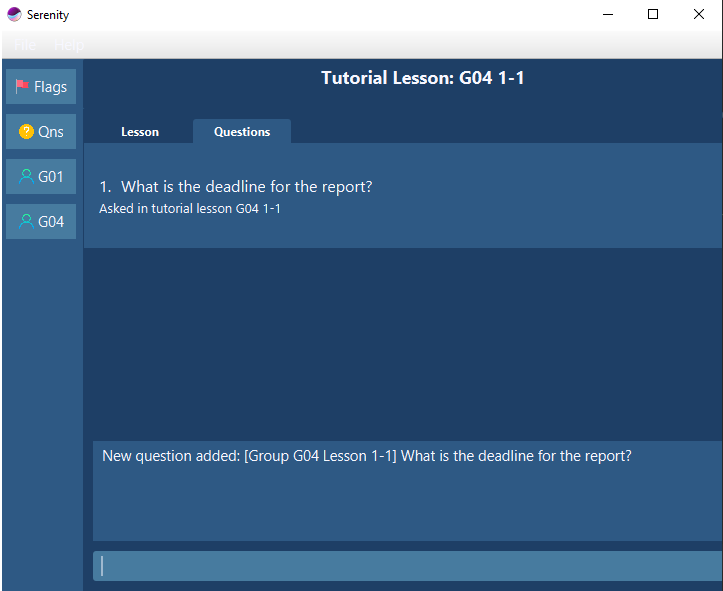
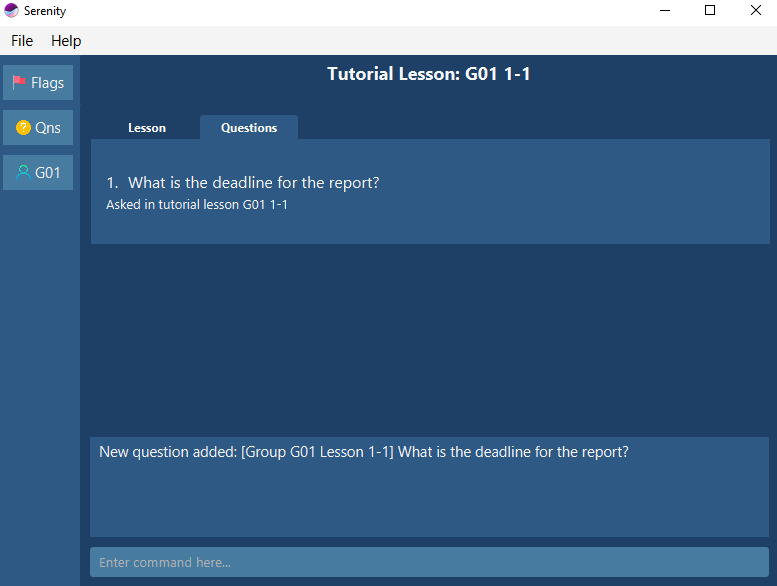
Update pictures and fix typo

diff --git a/docs/UserGuide.md b/docs/UserGuide.md
@@ -726,8 +726,6 @@ Outcome:
 1. The _Result Display_ will show a success message.
 2. You can now see that his score has been updated on the _Student Information Panel_.
 
-<p align="center"><i>Figure 4.3.2.1 Command for <code>editscore</code> command.</i></p>
-
 <p align="center"><img src="images/participation/editscore_result.png" alt="Result upon successful execution of command"></p>
 
 <p align="center"><i>Figure 4.3.2.1 Screen displayed when the command is successfully executed.</i></p>
@@ -830,7 +828,7 @@ Outcome:
 1. The _Result Display_ will show a success message.
 2. The question will be added to the list of questions.
 
-<p align="center"><img src="images/addqn/addqn_result.png" alt="Result upon successful execution of command"></p>
+<p align="center"><img src="images/addqn/addqn_result.png" alt="List of questions after command is executed."></p>
 
 <p align="center"><i>Figure 4.4.1.1 Screen displayed when the command is successfully executed.</i></p>
 
@@ -1082,7 +1080,7 @@ Outcome:
 
 <p align="center"><img src="images/flaggedatt2.png" alt="User interface for viewing flagged attendance."></p>
 
-<p align="center"><i>Figure 4.5.5.1 User interface showing the layout of the flagged attendance tab</i></p>
+<p align="center"><i>Figure 4.5.5.1 User interface showing the layout of the flagged attendance tab.</i></p>
 
 #### 4.5.6. View pending questions: `viewqn`
 
